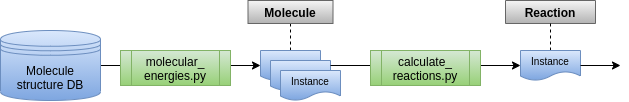
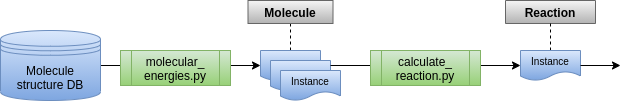
Updated readme

Changed region(s): [[0.6041, 0.7059, 0.725, 0.8235]]

diff --git a/examples/dehydrogenation/2-instance-mappings/reaction_energy.py b/examples/dehydrogenation/2-instance-mappings/reaction_energy.py
@@ -7,20 +7,19 @@ import dlite
 # Setup dlite paths
 thisdir = Path(__file__).parent.absolute()
 rootdir = thisdir.parent
-workflow1dir = rootdir / '1-simple-workflow'
-entitiesdir = rootdir / 'entities'
-atomdata = workflow1dir / 'atomscaledata.json'
-dlite.storage_path.append(f'{entitiesdir}/*.json')
-dlite.python_mapping_plugin_path.append(f'{rootdir}/python-mapping-plugins')
+atomdata = rootdir / '1-simple-workflow' / 'atomscaledata.json'
+dlite.storage_path.append(f'{rootdir}/entities/*.json')
 
+# URI to DLite metadata
 substance_id = 'http://onto-ns.com/meta/0.1/Substance'
+reaction_id = 'http://onto-ns.com/meta/0.1/Reaction'
 
 
 def reaction_energy(coll, reactants, products):
     """Returns the calculated reaction energy.
 
     Args:
-        coll: Collection with molecules.
+        coll: Collection with Substance instances.
         reactants: Dict with reactants.  It should map molecule names to
           their corresponding stoichiometric coefficient in the reaction
           formula.
@@ -37,16 +36,13 @@ def reaction_energy(coll, reactants, products):
         substance = coll.get(label, substance_id)
         energy += n * substance.molecule_energy
 
-    return energy
+    # Instantiate a new Reaction instance
+    Reaction = dlite.get_instance(reaction_id)
+    reaction = Reaction(dims=[len(reactants), len(products)])
+    reaction.reactants = list(reactants.keys())
+    reaction.products = list(products.keys())
+    reaction.reactant_stoichiometric_coefficient = list(reactants.values())
+    reaction.product_stoichiometric_coefficient = list(products.values())
+    reaction.energy = energy
 
-
-if __name__ == '__main__':
-    Substance = dlite.get_instance(substance_id)
-
-
-    # Load collection with atom scale data
-    coll = dlite.Collection(f'json://{atomdata}?mode=r#molecules', 0)
-
-    e = reaction_energy(coll, reactants={'C2H6': 1},
-                        products={'C2H4': 1,'H2': 1})
-    print(f'Reaction energy: {e} eV')
+    return reaction

diff --git a/examples/dehydrogenation/2-instance-mappings/calculate_reactions.py b/examples/dehydrogenation/2-instance-mappings/calculate_reactions.py
@@ -1,0 +1,24 @@
+#!/usr/bin/env python
+from pathlib import Path
+
+import dlite
+import reaction_energy
+
+
+# Setup dlite paths
+thisdir = Path(__file__).parent.absolute()
+rootdir = thisdir.parent
+atomdata = rootdir / '1-simple-workflow' / 'atomscaledata.json'
+dlite.storage_path.append(f'{rootdir}/entities/*.json')
+dlite.python_mapping_plugin_path.append(f'{rootdir}/python-mapping-plugins')
+
+
+# Load collection with atom scale data
+coll = dlite.Collection(f'json://{atomdata}?mode=r#molecules', 0)
+
+# Define the reaction of interest and calculate the reaction energy
+r = reaction_energy.reaction_energy(coll, reactants={'C2H6': 1},
+                                        products={'C2H4': 1,'H2': 1})
+print(f'Reaction energy: {r.energy} eV')
+
+r.save(f'yaml://{thisdir}/reaction.yaml?mode=w')

diff --git a/examples/dehydrogenation/README.md b/examples/dehydrogenation/README.md
@@ -18,11 +18,12 @@ This workflow involves three people that decided to use dlite for interoperabili
 * __Cyril__ from Corsica is the end user is this user case and need the reaction energies as input to higher-scale simulations.  He is happy to read the input in terms of an instance of [Reaction] metadata.
 
 Hence, the interesting step in this workflow is the conversion from [Molecule] instances of Allice to [Substance] instances needed by Bob.
-We will provide three different implementations of this workflow, with increasing level of semantic interoperability:
+We will provide four different implementations of this workflow, with increasing level of semantic interoperability:
 
 1. [Explicit exchange of DLite instances](#workflow-1-explicit-exchange-of-dlite-instances)
 2. [Static instance-based mapping](#workflow-2-static-instance-based-mapping)
 3. [Dynamic property-based mappings](#workflow-3-dynamic-property-based-mappings)
+4. [Ontologically described transformations](#workflow-4-ontologically-described-transformations)
 
 
 ## Workflow 1: Explicit exchange of DLite instances
@@ -37,7 +38,7 @@ with two calculation steps.
       python 1-simple-workflow/molecular_energies.py
 
   It does the following:
-  - reads all the molecule structures in the [molecules](#molecules) directory
+  - reads all the molecule structures in the [molecules](molecules) directory
   - calculates the corresponding molecule ground state energies using the [ASE EMT](https://wiki.fysik.dtu.dk/ase/ase/calculators/emt.html#module-ase.calculators.emt) calculator
   - for each molecule, instantiates a DLite [Molecule] instance populated with the structure information and calculated energy
   - add all the [Molecule] instances to a new collection
@@ -48,45 +49,39 @@ with two calculation steps.
         python 1-simple-workflow/calculate_reaction.py
 
   It does the following:
-  - loads the [atomscaledata.json](#1-simple-workflow/atomscaledata.json) database
+  - loads the [atomscaledata.json](1-simple-workflow/atomscaledata.json) database
   - use that to calculate the energy of the chemical reaction `C2H6(g) --> C2H4(g) + H2(g)`
-  - populate a new [Reaction](#entities/Reaction.json) instance
-  - write the new Reaction instance to [file](#ethane-dehydrogenation.json)
+  - populate a new [Reaction] instance
+  - write the new Reaction instance to [file](1-simple-workflow/ethane-dehydrogenation.json)
   - prints the calculated reaction energy to screen
 
 
 ## Workflow 2: Static instance-based mapping
 Alice, Bob and Cyril have left Copenhagen and went home to their respective country and continues to work more separately.
 * Alice calculates more molecules and makes the results available in an online database.
-* Bob improves his chemical reaction software that takes instances of [Substance] as input.  To also support reading [Molecule] instances as input, he creates a _DLite mapping plugin_ (see [python-mapping-plugins/molecule2substance.py](python-mapping-plugins/molecule2substance.py)) which transparently can instantiate an instance of [Substance] from an instance of [Molecule].  In his updated [script](2-instance-mappings/calculate_reactions.py)
+* Bob improves his chemical reaction software that takes instances of [Substance] as input.  To also support reading [Molecule] instances as input, he creates a _DLite mapping plugin_ [molecule2substance](python-mapping-plugins/molecule2substance.py) in the [python-mapping-plugins/](python-mapping-plugins) subdirectory, which transparently can instantiate an instance of [Substance] from an instance of [Molecule].  In his updated [Python module](2-instance-mappings/reaction_energy.py) he has provides a second argument to `coll.get()`:
 
+  ```python
+  substance = coll.get(label, substance_id)
+  ```
 
-* Cyril performs more simulations and would like to utilise the new results from Alice.  He has access to the new software of Bob, but needs to convert
+  that instructs DLite to convert the instance referred to by `label` to an instance of metadata `substance_id='http://onto-ns.com/meta/0.1/Substance'`.
+* Cyril performs more simulations and would like to utilise the new results from Alice.  He uses the mapping plugin provided by Bob.  He installs the mapping plugin and creates a small [script](2-instance-mappings/calculate_reactions.py) that imports the reaction_energy module by Bob.
 
-
-
-
+The workflow now looks as follows
 
 ![Workflow 2](figs/dehydrogenation-workflow2.png)
 
+and can be run with the script of Cyril
 
-The work flow is now separated into two different simulations performed independently. The first part is the calculation of energies of molecules.
-This was already done in workflow 1.
-We therefore start from the same [collection of molecules](#1-simple-workflow/atomscaledata.json) as generated in step 1.1.
-However, step 1.2 is replaced by running the script
-
-    python 2-dlite-mappings/create_substances.py
-
-The main difference is that the Molecule instances are implicitly converted Substance instances by providing the Substance URI as a second argument to `coll.get()`:
-
-```python
-    substance = coll.get(label, substance_id)
-```
-
-This conversion is performed with the `molecule2substance.py` dlite mapping plugin in the `python-mapping-plugins/` subdirectory.
+    python 2-dlite-mappings/calculate_reactions.py
 
 
 ## Workflow 3: Dynamic property-based mappings
+Alice and Bob have learned about ontologies and FAIR data, and realised that mapping their data to ontological concepts is a very good way to make it available for others.
+
+![Workflow 3](figs/dehydrogenation-workflow3.png)
+
 Two examples are provided:
 
 1. The mappings are hard coded into the run script, which can be run directly with python.
@@ -96,6 +91,8 @@ previous cases.
 The actual mapping betweeen the instances of required molecules in the [collection of molecules](#1-simple-workflow/atomscaledata.json)  and the Substance instances needed in the reaction calculation (`get_energy`) is done with the dlite function `make_instance`.
 Arguments provided are the target metadata (here Substance), instance(s) that the new Substance instance should be populated from and the mappings.
 See documentation for other possible arguments.
+
+![Mappings](figs/dehydrogenation-mappings.png)
 
 2. The mappings are obtained by use of ontologies in a two step process.
 This step requires the python package EMMOntoPy.
@@ -119,18 +116,39 @@ Mapping between data form the external repository and Bobs desired Substance(s) 
 
 
 
+
+## Workflow 4: Ontologically described transformations
+
+OTEAPI
+
+ProMo(?)
+
+
+![Workflow 4](figs/dehydrogenation-workflow4.png)
+
+
+![Mappings](figs/dehydrogenation-mappings2.png)
+
+
+
+
+
+
+
+
+
 ## Metadata used in the example
-You find all metadata in this example in the [entities](#entities) folder.
+You find all metadata in this example in the [entities](entities) folder.
 
 ### Molecule data model
-First we define a DLite data model describing a [molecule](#entities/Molecule.json).
+First we define a DLite data model describing a [Molecule].
 In addition to the information available in the structures, this data model also has a ground state energy property.
 
 ### Substance data model
-The [substance data model](#entities/Substance.json) is very simple. It only defines two properties, an id (or name) identifying a substance and its molecular energy.
+The [substance] data model is very simple. It only defines two properties, an id (or name) identifying a substance and its molecular energy.
 
 ### Reaction data model
-The [reaction data model](#entities/Reaction.json) defines a chemical reaction including its reaction energy.  It has two dimensions; the number of reactants and the number of products.
+The [Reaction] data model defines a chemical reaction including its reaction energy.  It has two dimensions; the number of reactants and the number of products.
 
 
 
